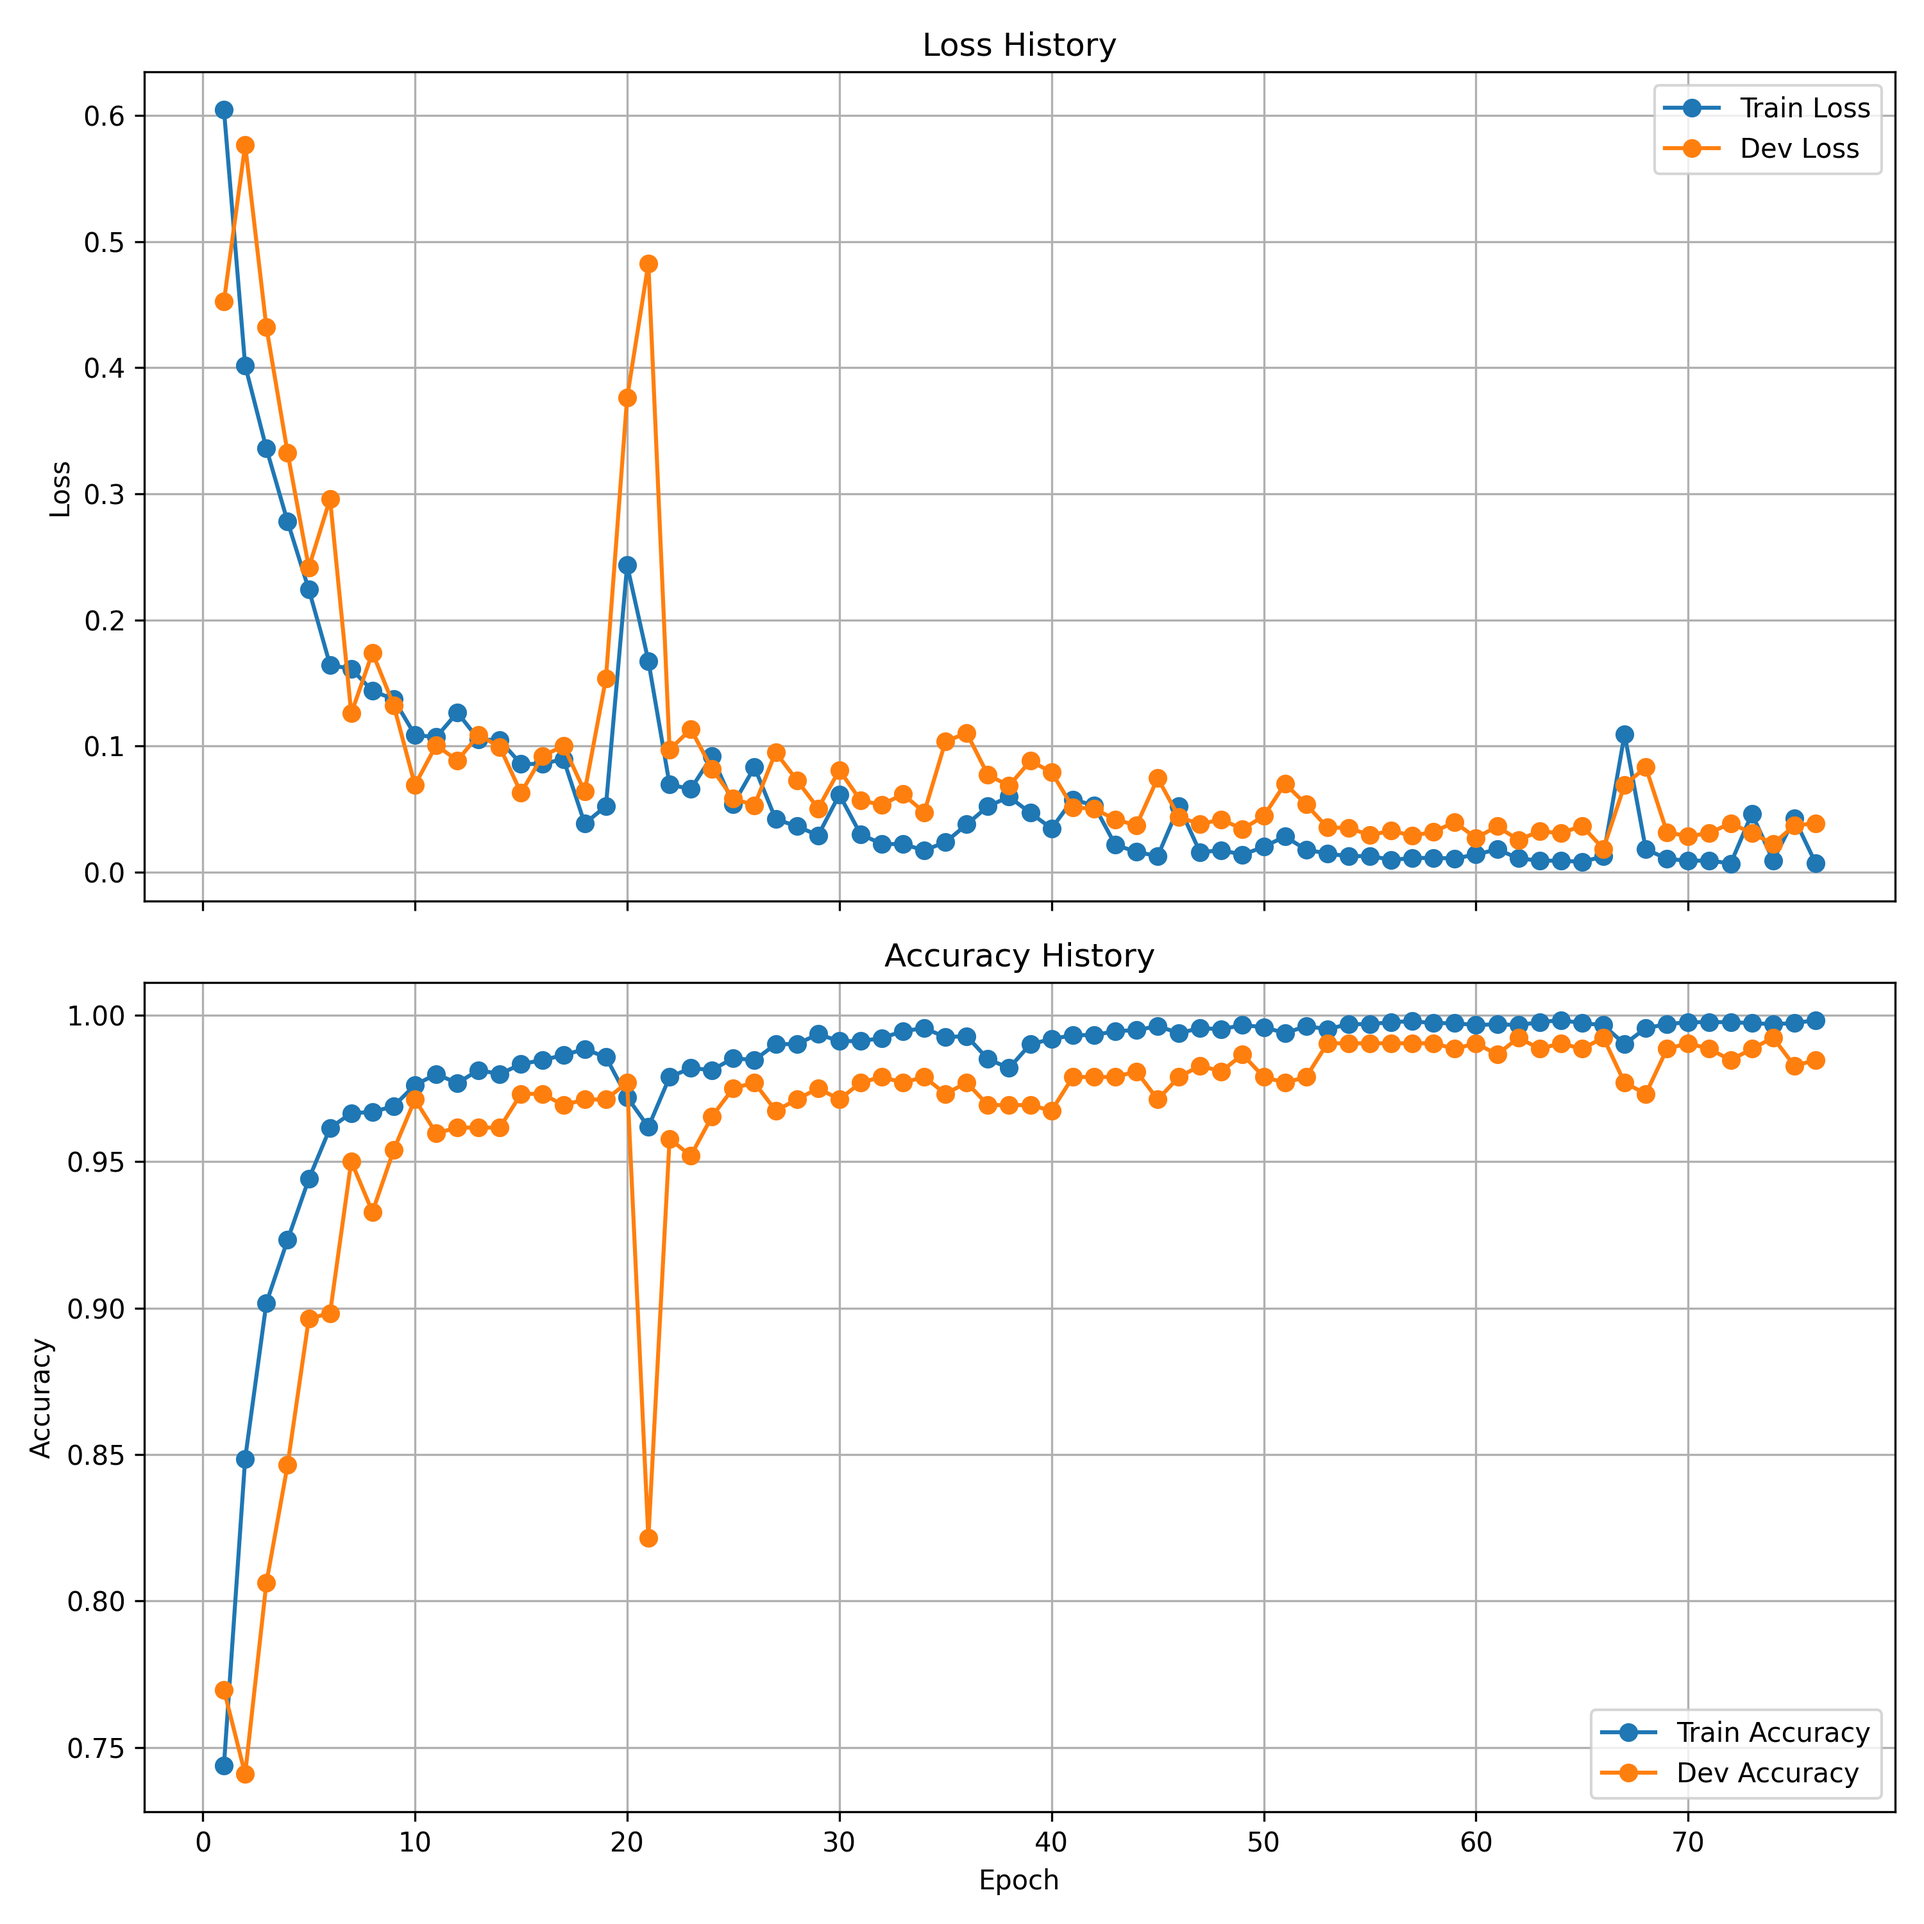
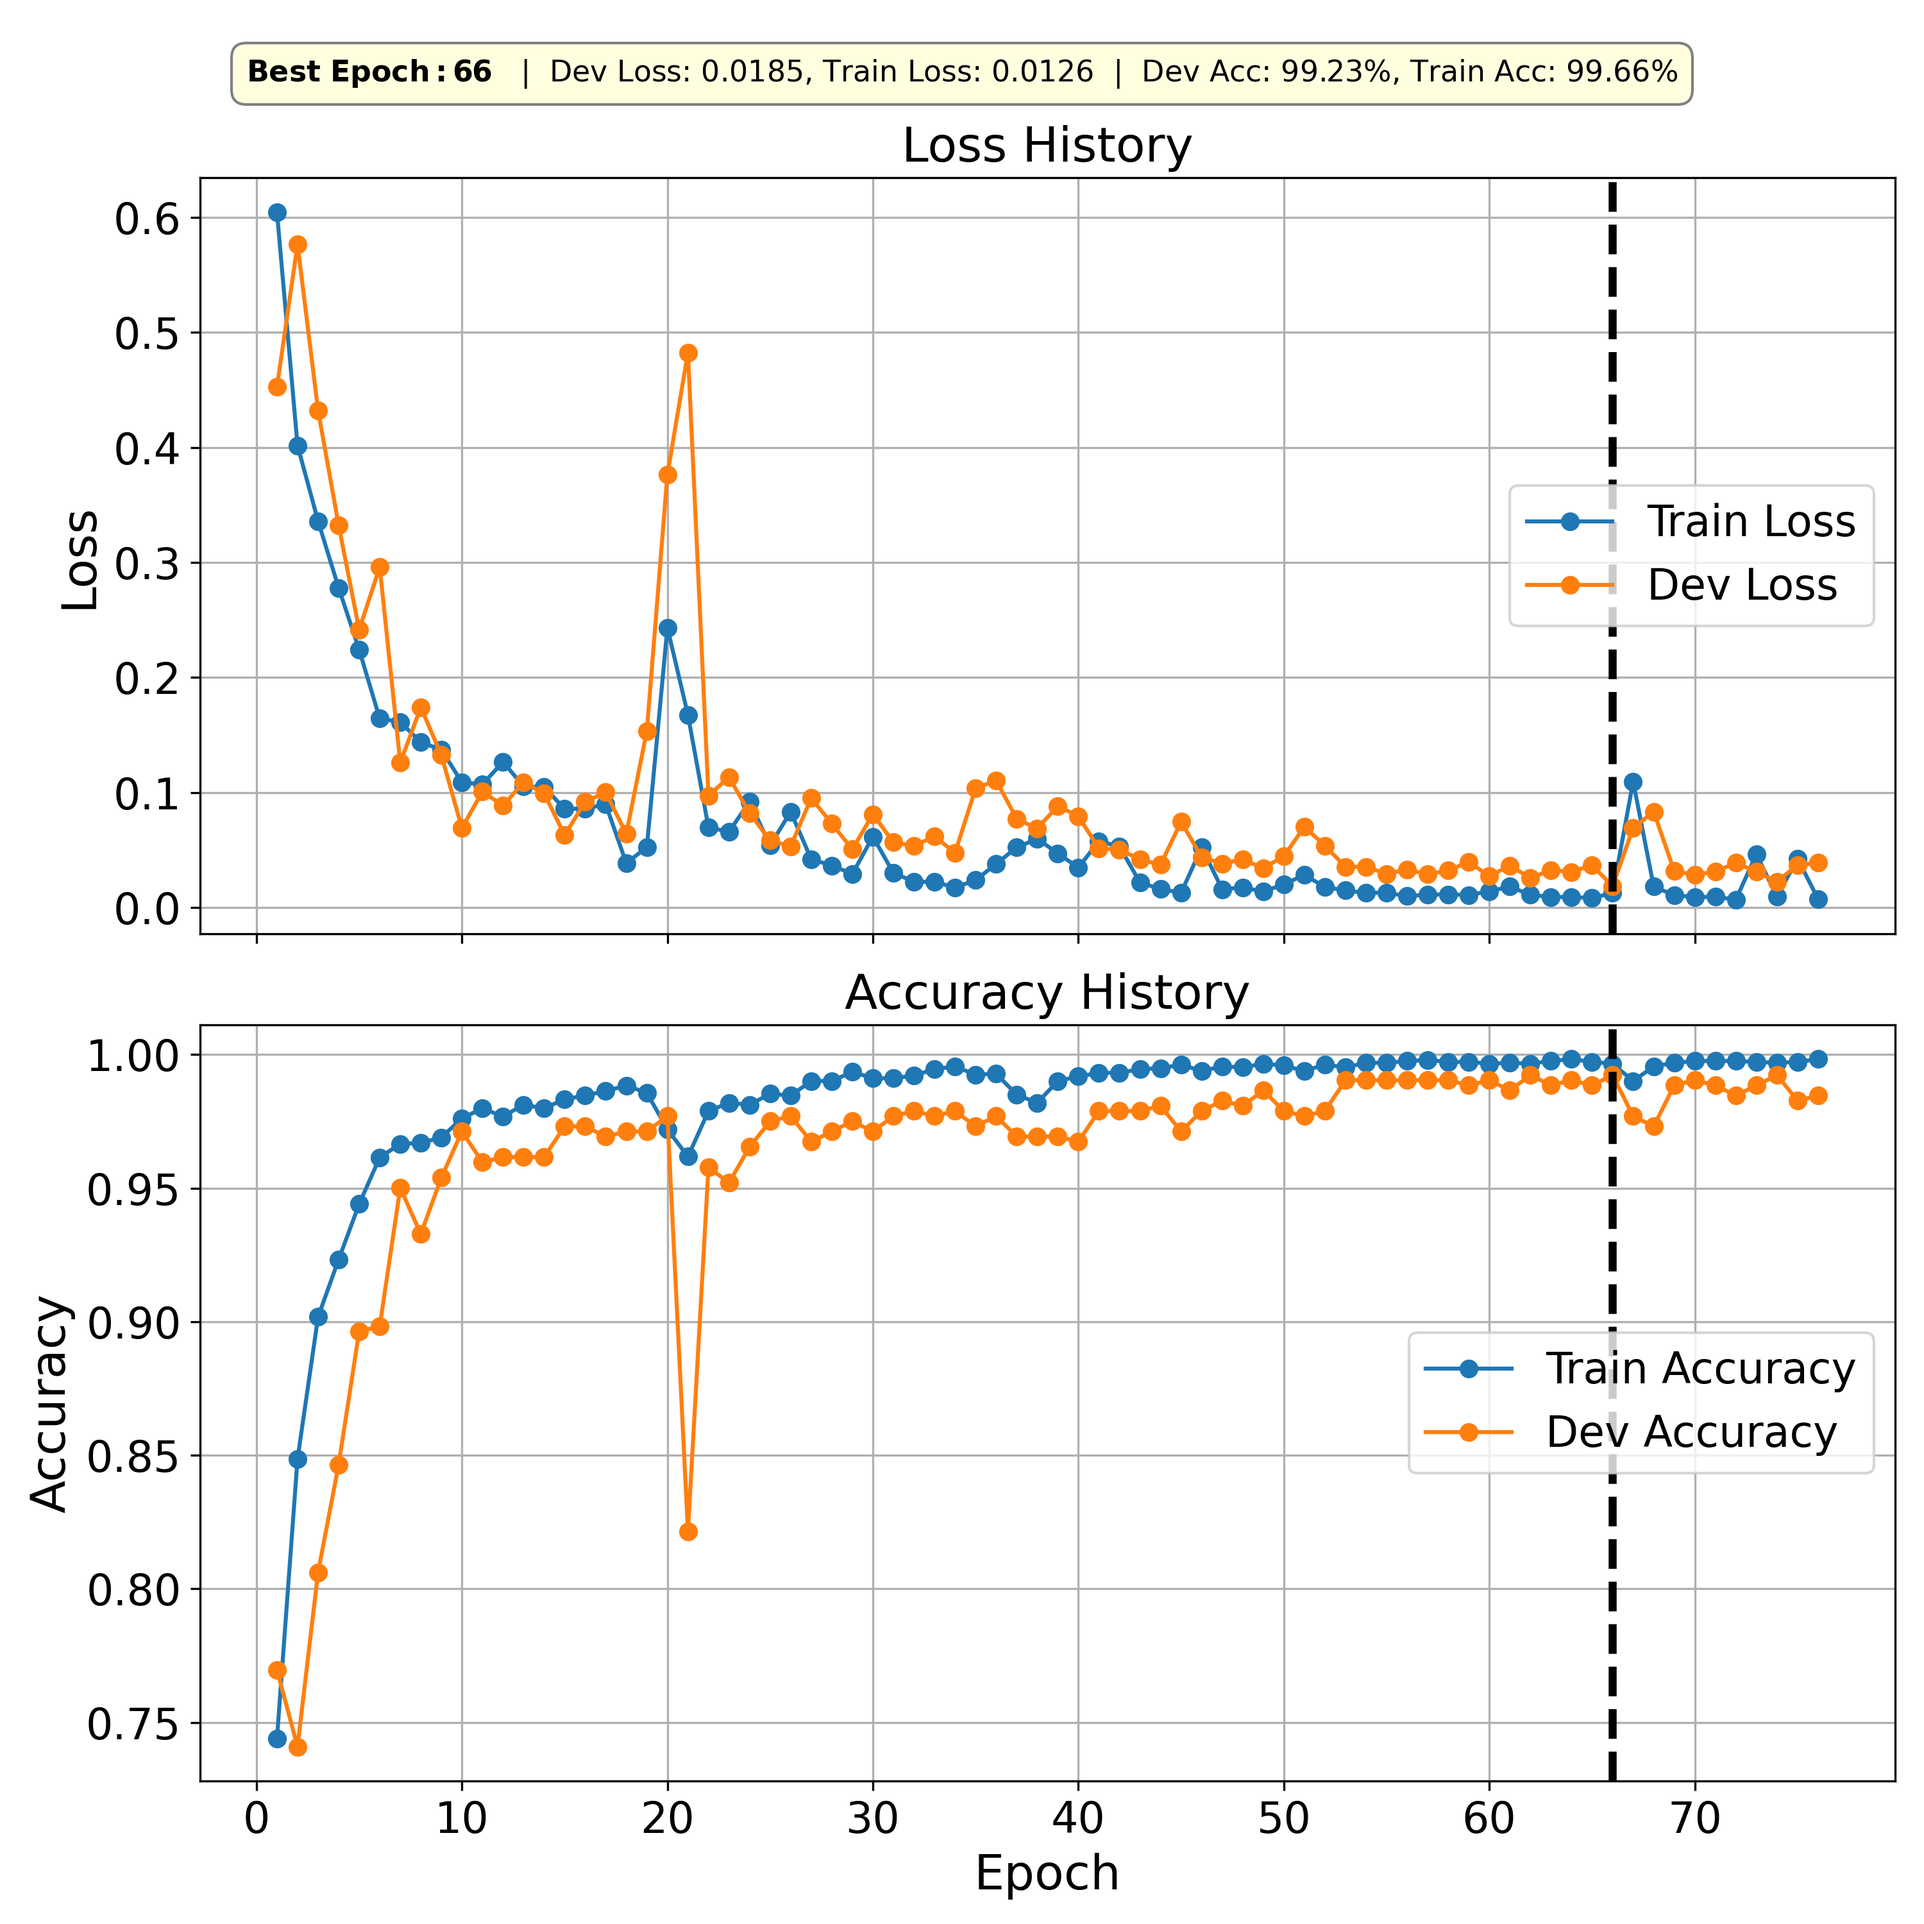
DM

diff --git a/DeepML/plot.py b/DeepML/plot.py
@@ -277,19 +277,9 @@ def plot_training_history(json_path, save_path=None, dpi=300):
     if history.get("dev_loss"):
         ax1.plot(epochs, history["dev_loss"], label="Dev Loss", marker="o")
 
-    if history.get("train_det_loss"):
-        ax1.plot(epochs, history["train_det_loss"], label="Train Det Loss", linestyle="--")
-    if history.get("dev_det_loss"):
-        ax1.plot(epochs, history["dev_det_loss"], label="Dev Det Loss", linestyle="--")
-
-    if history.get("train_mag_loss"):
-        ax1.plot(epochs, history["train_mag_loss"], label="Train Mag Loss", linestyle="--")
-    if history.get("dev_mag_loss"):
-        ax1.plot(epochs, history["dev_mag_loss"], label="Dev Mag Loss", linestyle="--")
-
-    ax1.set_ylabel("Loss")
-    ax1.set_title("Loss History")
-    ax1.legend()
+    ax1.set_ylabel("Loss",fontsize=18)
+    ax1.set_title("Loss History",fontsize=18)
+    ax1.legend(fontsize=16,loc="center right")
     ax1.grid(True)
 
     # --- Plot Accuracies ---
@@ -298,13 +288,41 @@ def plot_training_history(json_path, save_path=None, dpi=300):
     if history.get("dev_acc"):
         ax2.plot(epochs, history["dev_acc"], label="Dev Accuracy", marker="o")
 
-    ax2.set_xlabel("Epoch")
-    ax2.set_ylabel("Accuracy")
-    ax2.set_title("Accuracy History")
-    ax2.legend()
+    ax2.set_xlabel("Epoch",fontsize=18)
+    ax2.set_ylabel("Accuracy",fontsize=18)
+    ax2.set_title("Accuracy History",fontsize=18)
+    ax2.legend(fontsize=16,loc="center right")
     ax2.grid(True)
 
-    fig.tight_layout()
+    ax1.tick_params(axis='both', labelsize=16)
+    ax2.tick_params(axis='both', labelsize=16)
+
+    # --- Highlight Best Epoch ---
+    if "dev_loss" in history:
+        best_epoch_idx = history["dev_loss"].index(min(history["dev_loss"]))
+        best_epoch = best_epoch_idx + 1
+
+        best_dev_loss = history["dev_loss"][best_epoch_idx]
+        best_train_loss = history["train_loss"][best_epoch_idx]
+        best_dev_acc = history["dev_acc"][best_epoch_idx] if "dev_acc" in history else None
+        best_train_acc = history["train_acc"][best_epoch_idx] if "train_acc" in history else None
+
+        # Vertical lines
+        for ax in (ax1, ax2):
+            ax.axvline(best_epoch, color="black", linestyle="--", linewidth=3)
+
+        # --- Add a text box outside the top axis (above ax1) ---
+        summary_text = (
+        f"$\\bf{{Best\\ Epoch:{best_epoch}}}$   |  "
+        f"Dev Loss: {best_dev_loss:.4f}, Train Loss: {best_train_loss:.4f}  |  "
+        f"Dev Acc: {best_dev_acc:.2%}, Train Acc: {best_train_acc:.2%}"
+    )
+
+        fig.text(0.5, 0.97, summary_text, ha="center", va="top",
+                 fontsize=11, 
+                 bbox=dict(boxstyle="round,pad=0.5", facecolor="lightyellow", edgecolor="gray"))
+
+    fig.tight_layout(rect=[0, 0, 1, 0.95])  # Leave space at top for textbox
 
     # Optional: Save the figure
     if save_path:
@@ -389,8 +407,14 @@ def plot_scalar_detection_examples(generator, random_index=True,
 
 if __name__ == "__main__":
     
-    json_path = "/home/edc240000/DeepML/output/models/detection/Perceptron/best/training_history_Perceptron.json"
-    fig_path = "/home/edc240000/DeepML/output/models/detection/Perceptron/best//training_history.png"
+    # json_path = "/home/edc240000/DeepML/output/models/detection/Perceptron/best/training_history_Perceptron.json"
+    # fig_path = "/home/edc240000/DeepML/output/models/detection/Perceptron/best//training_history.png"
+    json_path = "/home/edc240000/DeepML/output/models/detection/DNN/best/training_history_DNN.json"
+    fig_path = "/home/edc240000/DeepML/output/models/detection/DNN/best//training_history.png"
+    json_path = "/home/edc240000/DeepML/output/models/detection/CNNSE/best/training_history_CNNSE.json"
+    fig_path = "/home/edc240000/DeepML/output/models/detection/CNNSE/best//training_history.png"
+    json_path = "/home/edc240000/DeepML/output/models/detection/CNNDE/best/training_history_CNNDE.json"
+    fig_path = "/home/edc240000/DeepML/output/models/detection/CNNDE/best//training_history.png"
     fig, ax = plot_training_history( json_path , 
                                     save_path=fig_path, 
                                     dpi=300)
